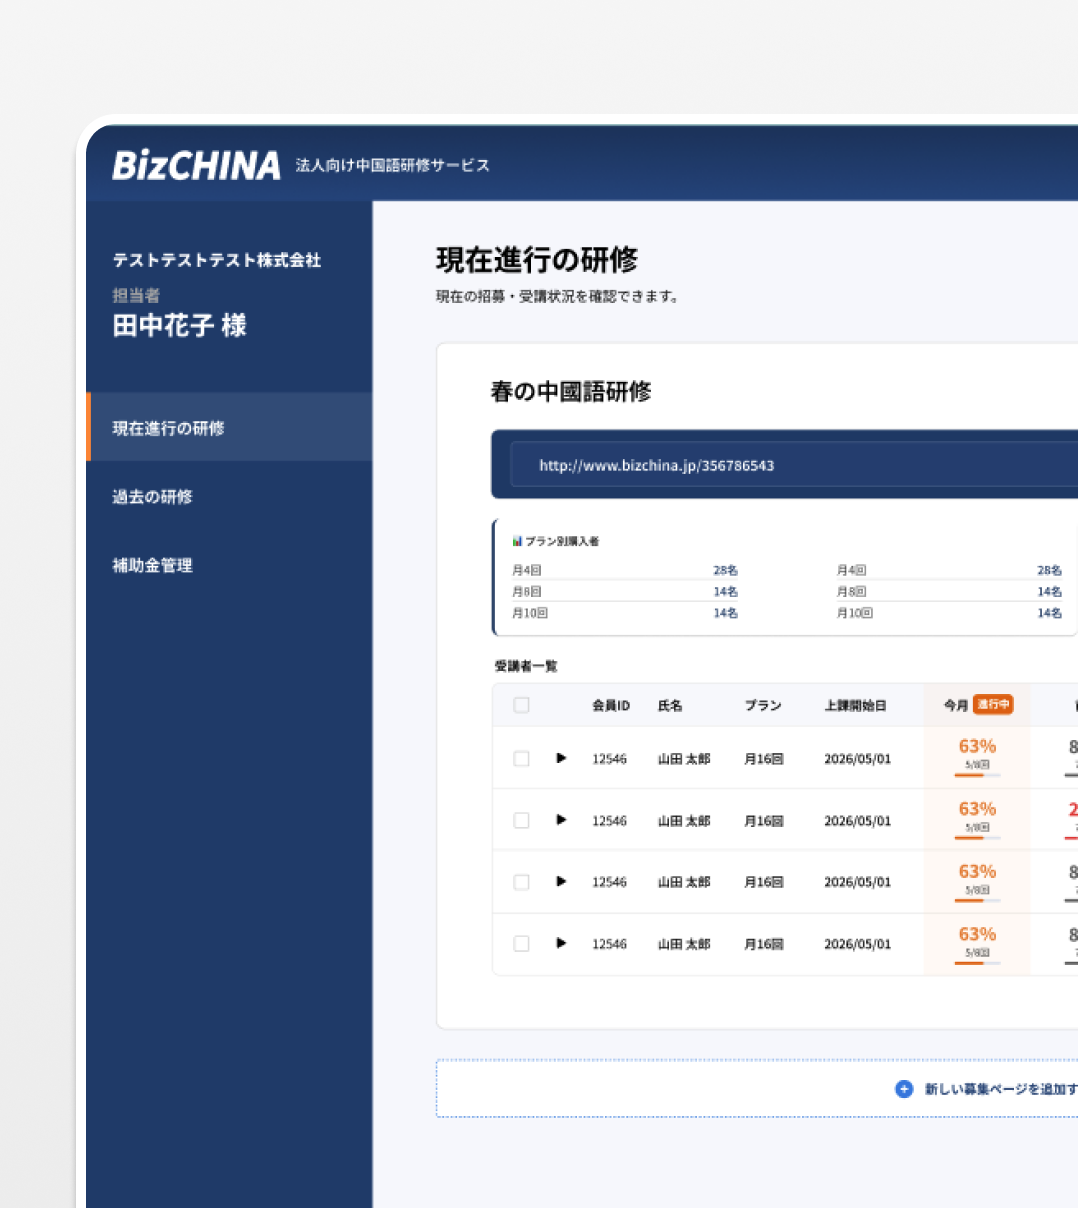
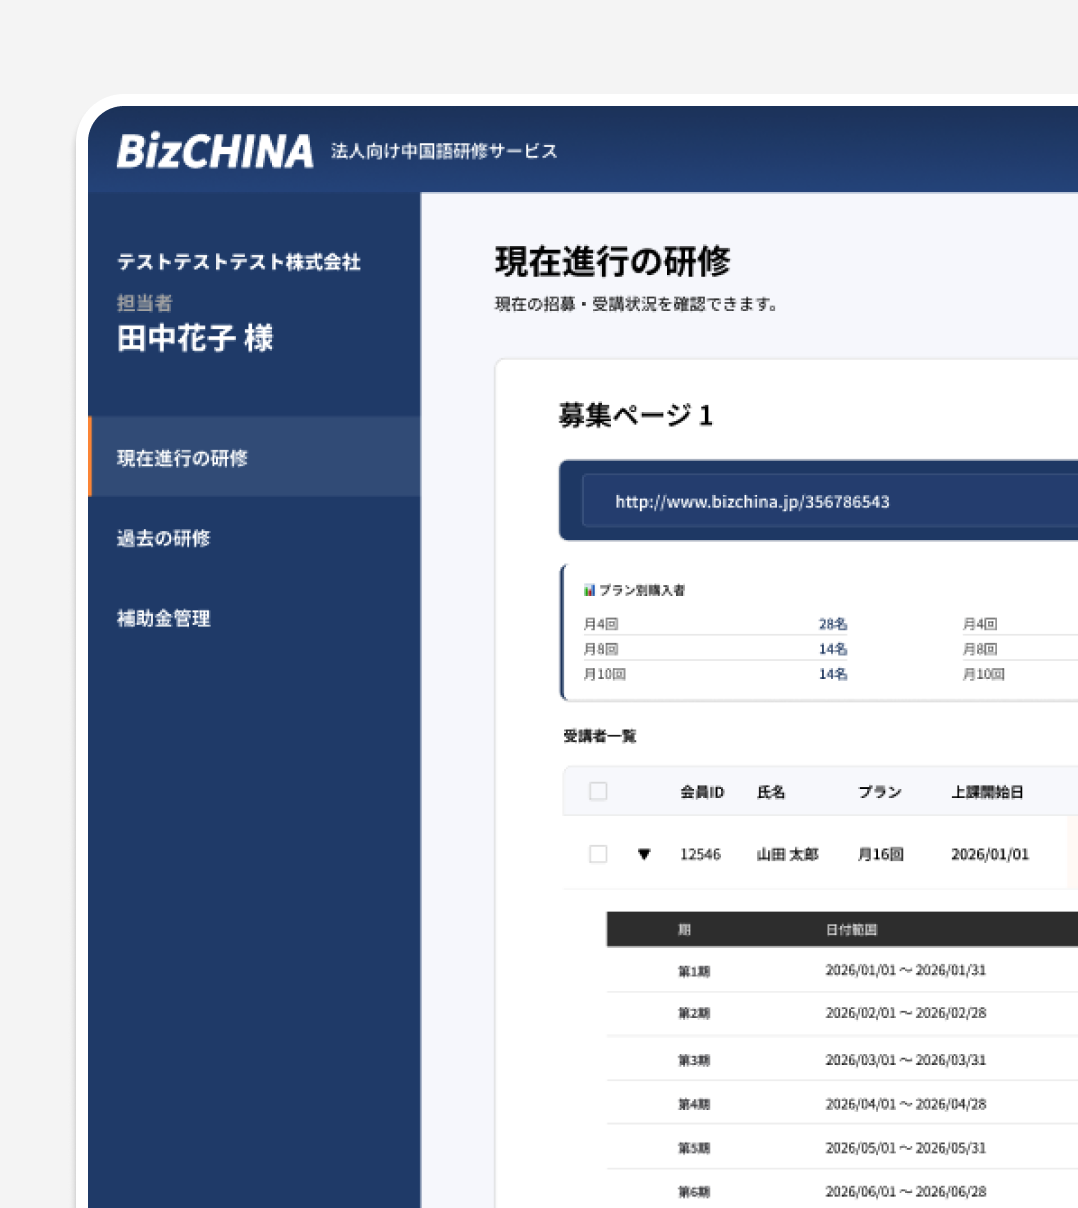
3

diff --git a/bizchina-houjin.html b/bizchina-houjin.html
@@ -21,8 +21,8 @@
     <h1 class="project-title-large">BizCHINA<br>法人研修管理システム</h1>
 
     <p class="project-intro">
-        既存のtoC中国語学習プラットフォームに、法人契約企業向けの研修管理機能を新設。<br>
-        採用募集から受講管理・証明書発行まで、これまで担当者が手動で行っていた業務フローを一元化し、システム化しました。
+        個人向けの中国語学習サービスに、企業向けの研修管理機能を新しく設計したプロジェクト。<br>
+        どんな機能が必要かの整理から画面設計まで、ゼロから担当しました。
     </p>
 
     <div class="project-meta-grid">
@@ -57,26 +57,26 @@
     <div class="section-title">Challenge</div>
     <h2>課題</h2>
 
-    <h3>担当者の属人的な管理業務</h3>
-    <p>本来はシステムが担うべき「受講リマインド」「出席率の集計」「証明書発行」などの業務を、社内スタッフが手動で行っていた。各企業ごとに状況が異なるため、担当者の負担が増大していた。</p>
+    <h3>担当者に頼りすぎる運用</h3>
+    <p>研修の手配や進捗の確認がほぼすべて手作業で、担当者の頑張りに頼りきりの運用になっていました。企業が増えれば増えるほど、そのまま負担も増えてしまう状態でした。</p>
 
-    <h3>人事担当者にとっての心理的負担</h3>
-    <p>受講率が低い従業員への声かけは、同じ職場で上下関係のある人事担当者にとってデリケートな作業。個人へのプレッシャーを生みやすく、リマインドをシステム側に委ねたいというニーズがあった。</p>
+    <h3>声をかけにくい、という本当の問題</h3>
+    <p>受講が遅れている人に声をかけるのは、同じ職場の人間関係の中では気を使う場面です。この「言いにくい」という気持ちが、受講が進まない原因のひとつになっていると考えました。</p>
 
-    <h3>研修状況の可視化不足</h3>
-    <p>各企業の研修進捗を把握するためには、社内スタッフへの問い合わせが必要で、リアルタイムでの状況確認ができなかった。</p>
+    <h3>誰がどこまで進んでいるか、すぐにわからない</h3>
+    <p>各社の研修がどこまで進んでいるか、その場ですぐには確認できない状態でした。問題に気づくのが遅れやすく、担当者が画面を見るだけで全体がわかる設計が必要だと考えました。</p>
 </section>
 
 <!-- Solution 1 -->
 <section class="content-section">
     <div class="section-title">Solution 1</div>
-    <h2>業務フローの設計とシステム化</h2>
+    <h2>研修の流れを、担当者が自分で完結できるように</h2>
 
-    <p>「募集ページの作成 → 従業員の申し込み → 受講 → 証明書発行」という一連の研修フローを、初めてシステムとして設計・実装。これまで担当者が個別に対応していた業務を、ダッシュボード上で完結できるようにした。</p>
+    <p>申し込みページの作成から受講管理・証明書の発行まで、担当者がひとつの画面で完結できるよう設計しました。それまでバラバラに行っていた対応を一か所に集約することが、このプロジェクトの中心にある考えです。</p>
 
     <div class="subsection">
-        <h3>募集ページエディター</h3>
-        <p>法人の人事担当者が、プランや割引・公開期間などを設定し、従業員向けの申し込みページを自ら作成・公開できる機能。右側にリアルタイムプレビューを配置し、操作のフィードバックを直感的に確認できる設計とした。</p>
+        <h3>担当者が自分でページを作って公開できる</h3>
+        <p>誰かに頼まずに、従業員向けの申し込みページを担当者自身が作って公開できるようにしました。画面右側にリアルタイムプレビューを置いているので、設定を変えながら完成形をその場で確認できます。</p>
 
         <div class="full-width-image masked-image">
             <img src="images/houjin_editor.png">
@@ -87,13 +87,13 @@
 <!-- Solution 2 -->
 <section class="content-section">
     <div class="section-title">Solution 2</div>
-    <h2>受講状況の一目把握と低受講率の早期検知</h2>
+    <h2>受講状況を一目で把握して、すぐ動ける画面へ</h2>
 
-    <p>ダッシュボードの設計における最重要指標は「受講率」。問題のある受講者を素早く発見できるよう、低受講率には色で警告を表示し、担当者がスクロールなく状況を把握できるレイアウトを設計した。</p>
+    <p>担当者がいちばん最初に知りたいのは「全員ちゃんと進んでいるか」ということ。受講が遅れている人は色でひと目でわかるようにし、スクロールしなくても全体が把握できるレイアウトにしました。画面を開いた瞬間に状況を理解できることを意識した設計です。</p>
 
     <div class="subsection">
-        <h3>メール通知トグル機能</h3>
-        <p>受講を促すリマインドメールを、担当者の手を介さずシステムから自動送信できる機能。「声がけ」という人的コストと心理的負担をなくすことで、人事担当者が気兼ねなく受講促進を行える環境を設計した。</p>
+        <h3>声がけをシステムに任せる</h3>
+        <p>リマインドメールをシステムから自動で送れるようにすることで、担当者が「また言うのも気まずいな」と感じる場面をなくしました。声をかけるかどうか迷わずに済むことが、受講率の改善につながると考えた設計です。</p>
 
         <div class="full-width-image masked-image">
             <img src="images/houjin_dashboard_active.png">
@@ -104,9 +104,9 @@
 <!-- Solution 3 -->
 <section class="content-section">
     <div class="section-title">Solution 3</div>
-    <h2>受講証明書の一括ダウンロード</h2>
+    <h2>証明書をまとめてダウンロード、過去の記録もすぐ見られる</h2>
 
-    <p>各受講者の証明書を個別に発行する手間を省き、複数名を選択して一括ダウンロードできる機能を実装。補助金申請などの締め切りがある業務に対応できる設計とした。また、期ごとの募集状況・受講実績を「過去の研修」ページで遡って確認できる。</p>
+    <p>受講証明書は一人ずつではなく、複数名を選んでまとめてダウンロードできるようにしました。締め切りのある手続きにも対応できるよう、操作をできるだけシンプルに保つことを意識しています。また、過去の研修の記録を振り返れるページも設けて、継続して使い続けてもらえる設計にしました。</p>
 
     <div class="full-width-image masked-image">
         <img src="images/houjin_download.png">
@@ -121,21 +121,21 @@
     <div class="section-title">Results & Impact</div>
     <h2>成果と学び</h2>
 
-    <h3>定量的成果</h3>
+    <h3>できるようになったこと</h3>
     <ul>
-        <li>社内スタッフによる手動管理の工数を削減</li>
-        <li>受講証明書の発行対応時間が短縮</li>
+        <li>これまで手作業だった工程がシステム上で完結し、担当者の手間が大きく減った</li>
+        <li>証明書を取り出すまでの手順が短くなり、時間を節約できるようになった</li>
     </ul>
 
-    <h3>定性的成果</h3>
+    <h3>使う人にとっての変化</h3>
     <ul>
-        <li>人事担当者がシステム上でリマインドを完結できるようになり、心理的負担が軽減</li>
-        <li>法人ごとの研修状況をリアルタイムで可視化</li>
+        <li>「送るのが気まずい」という感覚をなくし、担当者が気軽にリマインドできるようになった</li>
+        <li>各社の受講状況がリアルタイムでわかるようになり、問題への対応が早くなった</li>
     </ul>
 
     <div class="highlight-box">
         <h4>このプロジェクトを通じて</h4>
-        <p>単なるUI設計にとどまらず、「誰が」「どんな文脈で」この画面を使うかを起点に設計しました。特にリマインド通知機能は、職場の人間関係という文脈を踏まえた設計判断であり、UIの背後にある業務・心理的な課題の解決を意識した取り組みです。</p>
+        <p>「機能が動くかどうか」だけでなく、「担当者がどんな気持ちでこの画面を使うか」まで考えて設計することを意識したプロジェクトでした。特にリマインド機能は、職場の人間関係という技術とは関係のない部分が設計の判断に影響した例で、UIの設計が「使う人の行動」にどこまで関われるかを考えるきっかけになりました。</p>
     </div>
 </section>
 
@@ -173,7 +173,7 @@
         <div class="skill-category">
             <h3>Collaboration</h3>
             <ul>
-                <li>経営層との要件定義</li>
+                <li>ステークホルダーとの要件定義</li>
                 <li>エンジニアチームとの協業</li>
             </ul>
         </div>
@@ -248,9 +248,10 @@
     function attempt() {
         const input = document.getElementById('pw-input');
         if (input.value === PASSWORD) {
+            const src = pendingSrc;
             sessionStorage.setItem(SESSION_KEY, '1');
             closeModal();
-            openLightbox(pendingSrc);
+            openLightbox(src);
         } else {
             document.getElementById('pw-error').style.opacity = '1';
             input.value = '';

diff --git a/bizchina-houjin-en.html b/bizchina-houjin-en.html
@@ -21,8 +21,8 @@
     <h1 class="project-title-large">BizCHINA<br>Corporate Training Management</h1>
 
     <p class="project-intro">
-        I added a corporate training management feature to the existing B2C Chinese language learning platform.<br>
-        The entire workflow — from recruitment to attendance tracking and certificate issuance — was previously handled manually by staff. I designed and built a system to centralize and automate it.
+        I designed a corporate training management feature for an existing consumer Chinese learning platform — built from scratch.<br>
+        I handled everything from figuring out what the feature needed to do, all the way through to the final screen designs.
     </p>
 
     <div class="project-meta-grid">
@@ -57,26 +57,26 @@
     <div class="section-title">Challenge</div>
     <h2>The Problems</h2>
 
-    <h3>Staff Doing Everything Manually</h3>
-    <p>Tasks like sending attendance reminders, calculating completion rates, and issuing certificates — things the system should handle — were all done by hand. Every company had different needs, so the workload kept growing for the staff managing them.</p>
+    <h3>Almost everything was done by hand</h3>
+    <p>Nearly every part of the training process — from setup to tracking — was handled manually. The more corporate clients joined, the more work piled up. It wasn't a system problem you could patch; the whole workflow needed to be rethought.</p>
 
-    <h3>Psychological Burden on HR Personnel</h3>
-    <p>Reaching out to employees with low completion rates is a sensitive task when HR staff work in the same hierarchical workplace. It puts pressure on individuals. There was a clear need to hand this responsibility off to the system.</p>
+    <h3>It felt awkward to remind people</h3>
+    <p>Nudging an employee who's behind on training is uncomfortable when you work in the same office. That awkwardness was quietly getting in the way of completion rates, and I saw it as something design could actually fix.</p>
 
-    <h3>No Visibility into Training Progress</h3>
-    <p>To check each company's training status, staff had to ask internal team members directly. There was no way to see real-time progress.</p>
+    <h3>No easy way to see who was falling behind</h3>
+    <p>Checking on each company's progress meant reaching out separately — there was no way to just look it up. Problems stayed hidden longer than they needed to, so I wanted to make the answer visible the moment you open the screen.</p>
 </section>
 
 <!-- Solution 1 -->
 <section class="content-section">
     <div class="section-title">Solution 1</div>
-    <h2>Designing and Systemizing the Training Workflow</h2>
+    <h2>Giving managers a complete workflow in one place</h2>
 
-    <p>I designed the full training flow as a system for the first time: "Create recruitment page → Employee applies → Completes the course → Certificate is issued." Everything that staff used to handle case by case can now be completed within the dashboard.</p>
+    <p>I designed the whole training flow — from creating an application page to issuing certificates — so managers can handle everything in one dashboard. What used to require separate steps and manual coordination can now be done in one place.</p>
 
     <div class="subsection">
-        <h3>Recruitment Page Editor</h3>
-        <p>Corporate HR staff can set their own plans, discounts, and publication dates, then create and publish an application page for employees. A real-time preview on the right side gives instant feedback on every change.</p>
+        <h3>Managers can build and publish the page themselves</h3>
+        <p>Managers can set up and publish an employee application page on their own — no help needed. There's a live preview on the right that updates as you make changes, so you can see exactly how it'll look before going live.</p>
 
         <div class="full-width-image masked-image">
             <img src="images/houjin_editor.png">
@@ -87,13 +87,13 @@
 <!-- Solution 2 -->
 <section class="content-section">
     <div class="section-title">Solution 2</div>
-    <h2>At-a-Glance Status and Early Detection of Low Completion</h2>
+    <h2>A dashboard where you can see the full picture at a glance</h2>
 
-    <p>The most important metric in this dashboard is completion rate. To help managers spot problems fast, low completion rates are highlighted with color warnings. The layout is designed so managers can understand the full picture without scrolling.</p>
+    <p>The first thing managers want to know is whether everyone is on track. I used color to make it instantly obvious when someone is falling behind, and laid out the page so you don't have to scroll to get the full picture. The goal was simple: open the screen and know what to do next.</p>
 
     <div class="subsection">
-        <h3>Email Notification Toggle</h3>
-        <p>The system can automatically send reminder emails to encourage attendance — no HR involvement needed. By removing the human cost and the awkwardness of "following up," I created an environment where HR can promote attendance without hesitation.</p>
+        <h3>Let the system send the reminder</h3>
+        <p>Automated reminders mean managers don't have to personally nudge employees. Removing that "should I send this?" moment was the whole point — when it's not awkward, it actually gets done.</p>
 
         <div class="full-width-image masked-image">
             <img src="images/houjin_dashboard_active.png">
@@ -104,9 +104,9 @@
 <!-- Solution 3 -->
 <section class="content-section">
     <div class="section-title">Solution 3</div>
-    <h2>Bulk Certificate Download</h2>
+    <h2>Download certificates in bulk, and look back at past training</h2>
 
-    <p>Instead of issuing certificates one by one, managers can select multiple employees and download them all at once. This is especially important for time-sensitive tasks like subsidy applications. Past recruitment data and completion records are also available in the "Past Training" page for easy review.</p>
+    <p>Managers can select multiple employees and download all their certificates at once — no need to do it one by one. I also added a history page where managers can look back at previous training sessions, so the tool stays useful beyond just the current cycle.</p>
 
     <div class="full-width-image masked-image">
         <img src="images/houjin_download.png">
@@ -121,21 +121,21 @@
     <div class="section-title">Results & Impact</div>
     <h2>Outcomes and Learnings</h2>
 
-    <h3>Quantitative Results</h3>
+    <h3>What changed</h3>
     <ul>
-        <li>Reduced manual management workload for internal staff</li>
-        <li>Shortened response time for certificate issuance</li>
+        <li>Manual steps that used to take time are now handled in the system, cutting down on busywork for managers</li>
+        <li>Getting completion certificates is much faster and takes far less effort than before</li>
     </ul>
 
-    <h3>Qualitative Results</h3>
+    <h3>How it felt different</h3>
     <ul>
-        <li>HR personnel can now manage reminders entirely within the system, reducing psychological burden</li>
-        <li>Real-time visibility into each company's training status</li>
+        <li>Managers can send reminders without the awkwardness — it just happens, and they don't have to think about it</li>
+        <li>Each company's training progress is visible in real time, right on the dashboard</li>
     </ul>
 
     <div class="highlight-box">
         <h4>Reflection</h4>
-        <p>This project went beyond UI design. I started from who would use this screen and in what context. The reminder notification feature in particular was a design decision shaped by the reality of workplace dynamics — an effort to solve not just a UI problem, but the operational and psychological challenges behind it.</p>
+        <p>This project pushed me to think beyond what the product needed to do, and into how it would actually feel to use it. The reminder feature is the clearest example — the design decision came from understanding workplace dynamics, not from any technical requirement. It reminded me that good design often means solving a people problem, not just a product one.</p>
     </div>
 </section>
 
@@ -173,7 +173,7 @@
         <div class="skill-category">
             <h3>Collaboration</h3>
             <ul>
-                <li>Requirements Definition with Management</li>
+                <li>Requirements Definition with Stakeholders</li>
                 <li>Collaboration with Engineering Team</li>
             </ul>
         </div>
@@ -248,9 +248,10 @@
     function attempt() {
         const input = document.getElementById('pw-input');
         if (input.value === PASSWORD) {
+            const src = pendingSrc;
             sessionStorage.setItem(SESSION_KEY, '1');
             closeModal();
-            openLightbox(pendingSrc);
+            openLightbox(src);
         } else {
             document.getElementById('pw-error').style.opacity = '1';
             input.value = '';

diff --git a/index.html b/index.html
@@ -127,14 +127,14 @@
                 </div>
                 <h3 class="project-title">BizCHINA 法人研修管理システム</h3>
                 <p class="project-description">
-                    既存toC教育プラットフォームに、法人向け研修管理機能を新設。採用から受講管理・証明書発行まで、担当者が手動で行っていた業務フローをシステム化しました。
+                    既存のtoC教育プラットフォームに、法人向けの研修管理機能を追加。これまで担当者が手動で行っていた一連の業務を、システム上でまとめて管理できるようにしました。
                 </p>
                 <div class="project-highlights">
                     <h4>Key Highlights</h4>
                     <ul>
-                        <li>募集ページエディターによる自己完結型の申し込みページ作成</li>
-                        <li>受講率の色分け警告による問題の早期検知</li>
-                        <li>メール通知トグルで人事担当者の心理的負担を軽減</li>
+                        <li>担当者が自分で設定・公開できる申し込みページ設計</li>
+                        <li>受講状況を一目で把握できるダッシュボード設計</li>
+                        <li>通知をシステムに任せることで、心理的負担を軽減</li>
                     </ul>
                 </div>
                 <div class="project-footer">

diff --git a/index-en.html b/index-en.html
@@ -118,14 +118,14 @@
                 </div>
                 <h3 class="project-title">BizCHINA Corporate Training Management</h3>
                 <p class="project-description">
-                    I added a corporate training management feature to the existing B2C education platform. The full workflow — from recruitment to attendance tracking and certificate issuance — was previously manual. I designed and built a system to automate it.
+                    I added a corporate training management feature to an existing B2C education platform. Tasks that managers used to handle manually can now be done entirely within the system.
                 </p>
                 <div class="project-highlights">
                     <h4>Key Highlights</h4>
                     <ul>
-                        <li>Self-serve recruitment page editor for HR personnel</li>
-                        <li>Color-coded completion rate warnings for early problem detection</li>
-                        <li>Email notification toggle to reduce HR's psychological burden</li>
+                        <li>Application page managers can set up and publish themselves</li>
+                        <li>Dashboard designed to show completion status at a glance</li>
+                        <li>Automated reminders that take the awkwardness out of following up</li>
                     </ul>
                 </div>
                 <div class="project-footer">

diff --git a/style.css b/style.css
@@ -398,7 +398,7 @@ html {
     padding: 0.875rem 1.75rem;
     background: transparent;
     border: 1px solid var(--color-accent);
-    border-radius: 24px;
+    border-radius: 40px;
     color: var(--color-accent);
     text-decoration: none;
     font-family: var(--font-en);
@@ -853,7 +853,7 @@ html {
     padding: 1.25rem 2.5rem;
     background: var(--color-surface);
     border: 1px solid var(--color-border);
-    border-radius: 24px;
+    border-radius: 40px;
     color: var(--color-text);
     text-decoration: none;
     font-family: var(--font-en);
